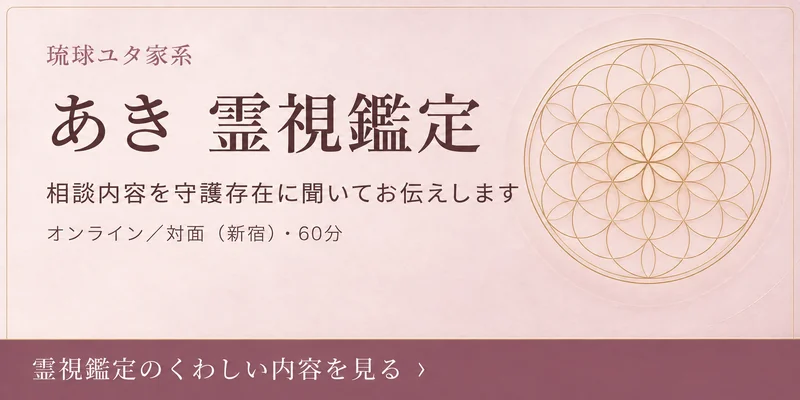
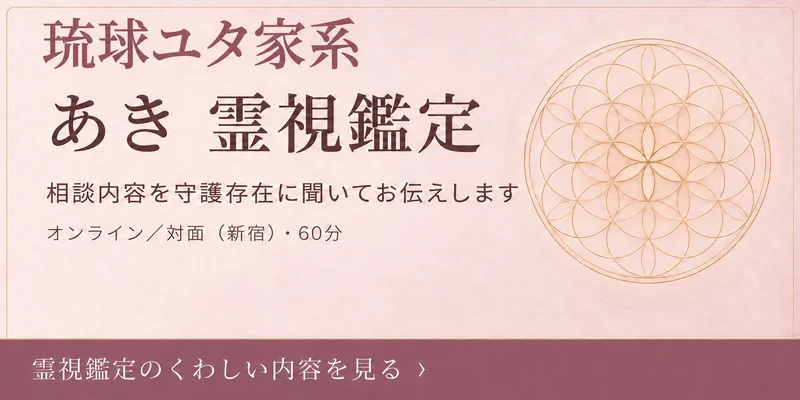
あき霊視鑑定バナーを最新の採用版に差し替え
Claude-Session: https://claude.ai/code/session_01WnJ4nSDsseRo9fW9bmER42

diff --git a/index.html b/index.html
@@ -1876,7 +1876,7 @@ function resultHTML(){
     <div class="ctabar hide" id="ctabar2" aria-hidden="true"><button class="btn rose cta shine coral" id="ctago2" type="button" tabindex="-1">このデザインで相談する（無料）<span class="arr">›</span></button></div>
     <a class="xban" href="https://motonory-a.github.io/japan-power-spots/?utm_source=bracelet&utm_medium=banner&utm_content=result" target="_blank" rel="noopener" data-track="ps_banner"><picture><source type="image/webp" srcset="banners/powerspot-banner-800.webp 800w, banners/powerspot-banner-1200.webp 1200w" sizes="(max-width:720px) 100vw, 640px"><img src="banners/powerspot-banner-1200.jpg" srcset="banners/powerspot-banner-800.jpg 800w, banners/powerspot-banner-1200.jpg 1200w" sizes="(max-width:720px) 100vw, 640px" width="1200" height="600" loading="lazy" decoding="async" alt="開運パワースポット巡り　次のお休み、どこに行こうか?　あなたに合う聖地を探す"></picture></a>
     <a class="xban" href="https://motonory-a.github.io/kippoui-hikkoshi/?utm_source=bracelet&utm_medium=banner&utm_content=result" target="_blank" rel="noopener" data-track="kh_banner"><picture><source type="image/webp" srcset="banners/kippoui-banner-800.webp 800w, banners/kippoui-banner-1200.webp 1200w" sizes="(max-width:720px) 100vw, 640px"><img src="banners/kippoui-banner-1200.jpg" srcset="banners/kippoui-banner-800.jpg 800w, banners/kippoui-banner-1200.jpg 1200w" sizes="(max-width:720px) 100vw, 640px" width="1200" height="600" loading="lazy" decoding="async" alt="開運！吉方位　引越しナビ　いつ、どの方位へ動くか。引越しの吉方位を調べる"></picture></a>
-    <a class="xban" href="https://motonory-a.github.io/aki-reishi/?utm_source=bracelet&utm_medium=banner&utm_content=result" target="_blank" rel="noopener" data-track="aki_banner"><picture><source type="image/webp" srcset="banners/aki-wide-banner-800.webp?v=3 800w, banners/aki-wide-banner-1200.webp?v=3 1200w" sizes="(max-width:720px) 100vw, 640px"><img src="banners/aki-wide-banner-1200.jpg?v=3" srcset="banners/aki-wide-banner-800.jpg?v=3 800w, banners/aki-wide-banner-1200.jpg?v=3 1200w" sizes="(max-width:720px) 100vw, 640px" width="1200" height="600" loading="lazy" decoding="async" alt="琉球ユタ家系　あき　霊視鑑定　相談内容を守護存在に聞いてお伝えします　オンライン/対面(新宿)・60分　詳しく見る"></picture></a>
+    <a class="xban" href="https://motonory-a.github.io/aki-reishi/?utm_source=bracelet&utm_medium=banner&utm_content=result" target="_blank" rel="noopener" data-track="aki_banner"><picture><source type="image/webp" srcset="banners/aki-wide-banner-800.webp?v=4 800w, banners/aki-wide-banner-1200.webp?v=4 1200w" sizes="(max-width:720px) 100vw, 640px"><img src="banners/aki-wide-banner-1200.jpg?v=4" srcset="banners/aki-wide-banner-800.jpg?v=4 800w, banners/aki-wide-banner-1200.jpg?v=4 1200w" sizes="(max-width:720px) 100vw, 640px" width="1200" height="600" loading="lazy" decoding="async" alt="琉球ユタ家系　あき　霊視鑑定　相談内容を守護存在に聞いてお伝えします　オンライン/対面(新宿)・60分　詳しく見る"></picture></a>
     <button class="linkbtn" id="restart" type="button">最初からやり直す</button>${TEST_MODE?feedbackHTML():""}</div>`;
 }
 function detailHTML(D){
